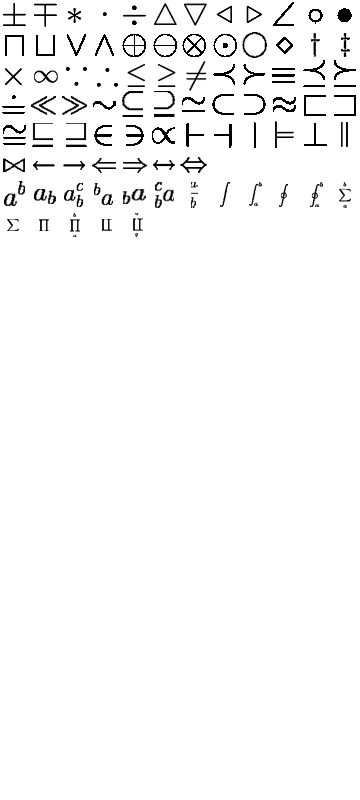
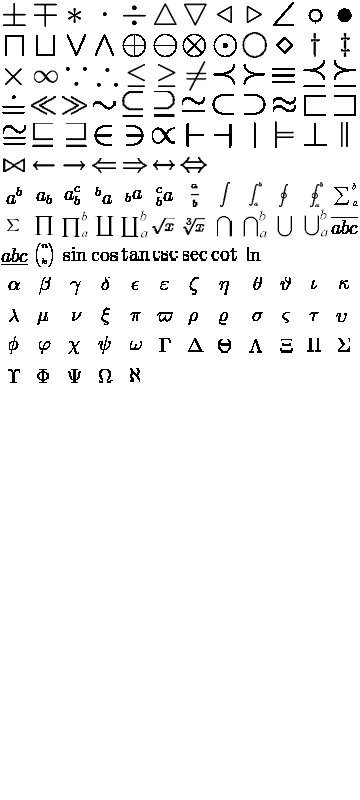
修改代码.......

diff --git a/trunk/ math-duodaa/blog/ckeditor/plugins/duodaa_math/dialogs/mathdialog.html b/trunk/ math-duodaa/blog/ckeditor/plugins/duodaa_math/dialogs/mathdialog.html
@@ -108,7 +108,8 @@ var duodaaMath = [
 		[
 			"{a}^{b}","{a}_{b}","{a}_{b}^{c}","^{b}{a}","_{b}{a}","_{b}^{c}{a}","\\frac{b}{a}","\\int","\\int_{a}^{b}",
 			"\\oint","\\oint_{a}^{b}","\\sum","\\sum_{a}^{b}","\\prod","\\prod_{a}^{b}","\\coprod","\\coprod_{a}^{b}",
-			"\\sqrt{x}","\\sqrt[3]{x}","\\overline{abc}","\\underline{abc}"
+			"\\sqrt{x}","\\sqrt[3]{x}","\\bigcup","\\bigcup_{a}^{b}","\\bigcap","\\bigcap_{a}^{b}","\\overline{abc}",
+			"\\underline{abc}","\\binom{n}{k}","\\sin","\\cos","\\tan","\\csc","\\sec","\\cot","\\ln"
 		],
 		[
 			"\\pm","\\mp","\\ast","\\cdot","\\div","\\bigtriangleup","\\bigtriangledown",
@@ -123,10 +124,12 @@ var duodaaMath = [
 		],
 		
 		[
-			"\\alpha","\\beta","\\gamma","\\delta","\\varepsilon","\\varphi","\\lambda","\\mu",
-			"\\rho","\\sigma","\\omega","\\Gamma","\\Delta","\\Theta","\\Lambda","\\Xi",
-			"\\Pi","\\Sigma","\\Upsilon","\\Phi","\\Psi","\\Omega"
+			"\\alpha","\\beta","\\gamma","\\delta","\\epsilon","\\varepsilon","\\zeta","\\eta","\\theta",
+			"\\vartheta","\\iota","\\kappa","\\lambda","\\mu","\\nu","\\xi","\\pi","\\varpi","\\rho","\\varrho",
+			"\\sigma","\\varsigma","\\tau","\\upsilon","\\phi","\\varphi","\\chi","\\psi","\\omega","\\Gamma","\\Delta","Theta",
+			"\\Lambda","\\Xi","\\Pi","\\Sigma","\\Upsilon","\\Phi","\\Psi","\\Omega","\\aleph"
 		]
+
 	];
 	
 $(".math_panel .math_show_buttons").mouseover( function(){$(".math_hide_buttons").show();});
@@ -173,7 +176,10 @@ function ger_panel(panel_order,buttons_type)
 	{
 	   iniLine = 0;
 	}
-	
+	else if(panel_order==2)
+	{
+	   iniLine = 9;
+	}
 	
 	if(buttons_type=="show")
 	{
